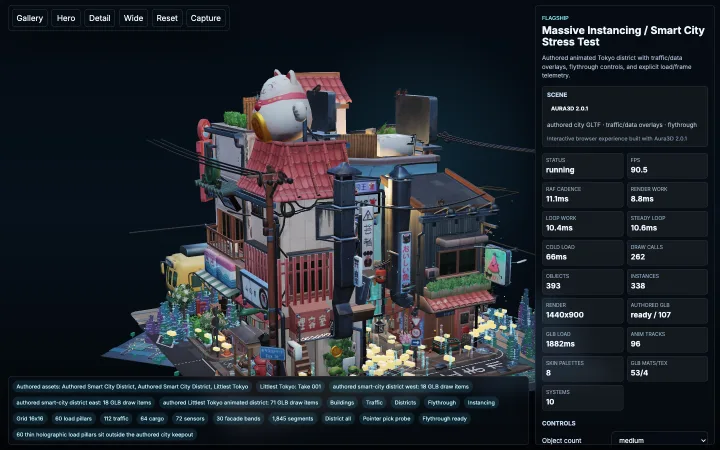
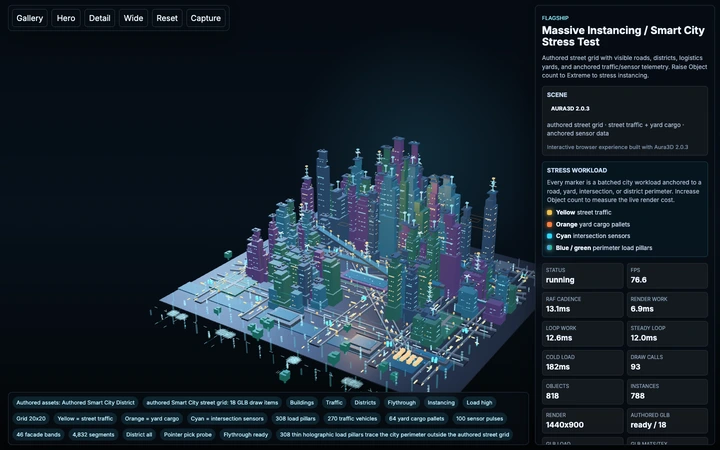
Update smart city showcase thumbnail

diff --git a/apps/showcase-index/index.html b/apps/showcase-index/index.html
@@ -133,7 +133,7 @@
           <a class="showcase-card is-water" href="/apps/advanced-examples-gallery/#water-lab"><span>09</span><strong>Interactive Water Lab</strong><small>Ripple interaction, floating props, docks, lights, and debug waves.</small></a>
           <a class="showcase-card is-water" href="/apps/advanced-examples-gallery/#ocean-observatory"><span>10</span><strong>Ocean Surface Showcase</strong><small>Layered ocean motion, authored observatory, drones, beacons, and wind controls.</small></a>
           <a class="showcase-card is-advanced" href="/apps/advanced-examples-gallery/#reactor-post"><span>11</span><strong>Cinematic Post Pipeline</strong><small>Command-center staging, emissive reactor, particles, scan rings, and effect controls.</small></a>
-          <a class="showcase-card is-city" href="/apps/advanced-examples-gallery/#smart-city"><span>12</span><strong>Smart City Stress Test</strong><small>Authored city district with restrained load holograms, traffic, flythrough, and district focus.</small></a>
+          <a class="showcase-card is-city" href="/apps/advanced-examples-gallery/#smart-city"><span>12</span><strong>Smart City Stress Test</strong><small>Authored street grid with grounded traffic, yard cargo, intersection sensors, load telemetry, and flythrough.</small></a>
           <a class="showcase-card is-data" href="/apps/advanced-examples-gallery/#data-galaxy"><span>13</span><strong>AI Data Galaxy</strong><small>Dense formations, attractors, trails, connection hints, and camera flight.</small></a>
           <a class="showcase-card is-product" href="/apps/advanced-examples-gallery/#product-configurator"><span>14</span><strong>Concept Car Configurator</strong><small>Texture-backed car, imported variants, exploded view, turntable, and studio lighting.</small></a>
           <a class="showcase-card is-advanced" href="/apps/advanced-examples-gallery/#robotics-lab"><span>15</span><strong>Animated Robotics Lab</strong><small>Animated glTF actors, task zones, monitors, timeline controls, and follow camera.</small></a>

diff --git a/marketing/index.html b/marketing/index.html
@@ -230,7 +230,7 @@
       <div class="sec-head-left">
         <span class="eyebrow">New in 2.0.3</span>
         <h2 class="h2">One owner per capability. Typed assets in public. <em style="font-family:var(--serif);font-style:italic">Visual evidence that fails closed.</em></h2>
-        <p class="lede">Aura3D 2.0.3 is live across all 29 public packages. This showcase and test-harness patch keeps the prior playable, catalog, and Smart City corrections while restoring Vite 7-ready browser evidence, bringing Smart City medium density to 328 instances without changing its Tokyo-only hero or keepout, adding the promised draw-range interaction, tightening 390px route chrome, and removing local-dev favicon noise.</p>
+        <p class="lede">Aura3D 2.0.3 is live across all 29 public packages. This showcase and test-harness patch keeps the prior playable and catalog corrections while restoring Vite 7-ready browser evidence, reframing Smart City around an authored street grid with grounded traffic, yard cargo, intersection sensors, and explicit load telemetry, adding the promised draw-range interaction, tightening 390px route chrome, and removing local-dev favicon noise.</p>
       </div>
     </div>
 

diff --git a/apps/advanced-examples-gallery/src/smartCityEvidence.ts b/apps/advanced-examples-gallery/src/smartCityEvidence.ts
@@ -74,7 +74,7 @@ interface MutableBatch {
 
 const DISTRICTS: readonly SmartCityDistrict[] = ["north", "harbor", "core", "industrial"];
 
-/** Authored Tokyo district occupies the hero volume. Overlay pillars stay outside it. */
+/** Authored street-grid district occupies the hero volume. Overlay pillars stay outside it. */
 export const SMART_CITY_AUTHORED_CORE_KEEPOUT_RADIUS = 2.15;
 export const SMART_CITY_OVERLAY_MAX_WIDTH = 0.06;
 export const SMART_CITY_OVERLAY_MAX_HEIGHT = 0.74;

diff --git a/apps/advanced-examples-gallery/README.md b/apps/advanced-examples-gallery/README.md
@@ -65,7 +65,7 @@ The source metadata currently describes ten accepted routes. Because `tests/repo
 | --- | --- | --- | --- |
 | Water Lab | Accepted | CPU/procedural water, ripple interaction, marina props, and route instrumentation | No native GPGPU water solver is claimed. |
 | Ocean Observatory | Accepted | WebGL2 procedural ocean, observatory staging, drone overlays, and route instrumentation | WebGPU/FFT water, screen-space refraction, and caustics remain bounded approximations. |
-| Smart City | Accepted | Littlest Tokyo authored hero, restrained A3D traffic/data overlays, batching, and route instrumentation. Extra district GLBs are not added; tram/train/bus authored nodes are excluded. | It is an accepted route, not the entire large-scale instancing benchmark. |
+| Smart City | Accepted | Authored Smart City street-grid hero, grounded A3D street traffic, logistics-yard cargo, intersection sensors, batching, and route instrumentation. Flythrough-only aerial/rail motion stays out of the default view. | It is an accepted route, not the entire large-scale instancing benchmark. |
 | Data Galaxy | Accepted | Route-owned CPU/static data visualization geometry: nuclei, clusters, arcs, streams, and point batches | The generated Data Galaxy GLB is cataloged but inactive as focal hero proof. |
 | Product Configurator | Accepted | Original texture-backed concept-car GLB with bounded material/render-state stability and showroom staging | Hotspot-style triangle picking and authored exploded animation timelines remain bounded gaps. |
 | Physics Testbed | Accepted | A3D PhysicsWorld rigid bodies, primitive/proxy colliders, and route-level interactions | Mesh-derived colliders and articulated robot dynamics remain bounded gaps. |
@@ -112,7 +112,7 @@ These are the visual targets and failure boundaries used by the route metadata, 
 | Water Lab | GPGPU/WebGL water demos | Sunset marina or mountain lake with readable water interaction, shoreline depth, dock/boat/lights/props, and visible ripple response. | Blue plane, flat terrain, unlit prop scatter, or invisible pointer disturbance. |
 | Ocean Observatory | WebGPU/WebGL ocean demos | Futuristic observatory/yacht deck overlooking layered animated ocean, horizon atmosphere, drones/markers, glass rails, and moving reflection cues. | Same composition as Water Lab, one sine-wave plane, or low-detail deck. |
 | Reactor Post | Bloom/effects-composer demos | AI command center with reactor focal point, clean emissive hierarchy, holographic UI layers, particles, and obvious before/after effect value. | Noisy bloom, washed-out scene, arbitrary glowing shapes, or postprocess that hurts clarity. |
-| Smart City | Littlest Tokyo, instancing, performance scenes | Aerial Tokyo simulation with the single authored hero, restrained traffic/data pulses, flythrough motion, and keepout so traffic does not clip buildings. Extra district GLBs and tram/train/bus authored nodes are out of scope. | Extra district mash-up, vehicles running through buildings, or a raw grid benchmark. |
+| Smart City | Authored street grid, instancing, performance scenes | Aerial smart-city simulation with visible roads, districts, logistics yards, grounded traffic, intersection sensors, perimeter load telemetry, and optional flythrough motion. | Extra asset mash-ups, airborne cargo markers, vehicles leaving the road network, or a raw grid benchmark. |
 | Data Galaxy | GPGPU particles / galaxy generators | Dense AI infrastructure particle volume with formations, attractors, trails/connections, central data core, labels, and visible count/perf tradeoff. | Static starfield, sparse dots, or CPU limit hidden as GPU compute. |
 | Product Configurator | PBR glTF product configurators | Premium studio product layout with named parts, legible lens/glass/metal/rubber materials, close material swatches, hotspots, close-up cameras, variants, and exploded behavior. | One rotating prop, white strap/glass halos, noisy panels, excess empty studio space, or controls that do not affect imported parts. |
 | Robotics Lab | Animated glTF / skinning / IK demos | Robotics training lab with multiple animated entities, grounded set dressing, timeline controls, selected entity status, and readable motion. | One character on a blank floor, white/default materials, no state changes, or hidden animation. |
